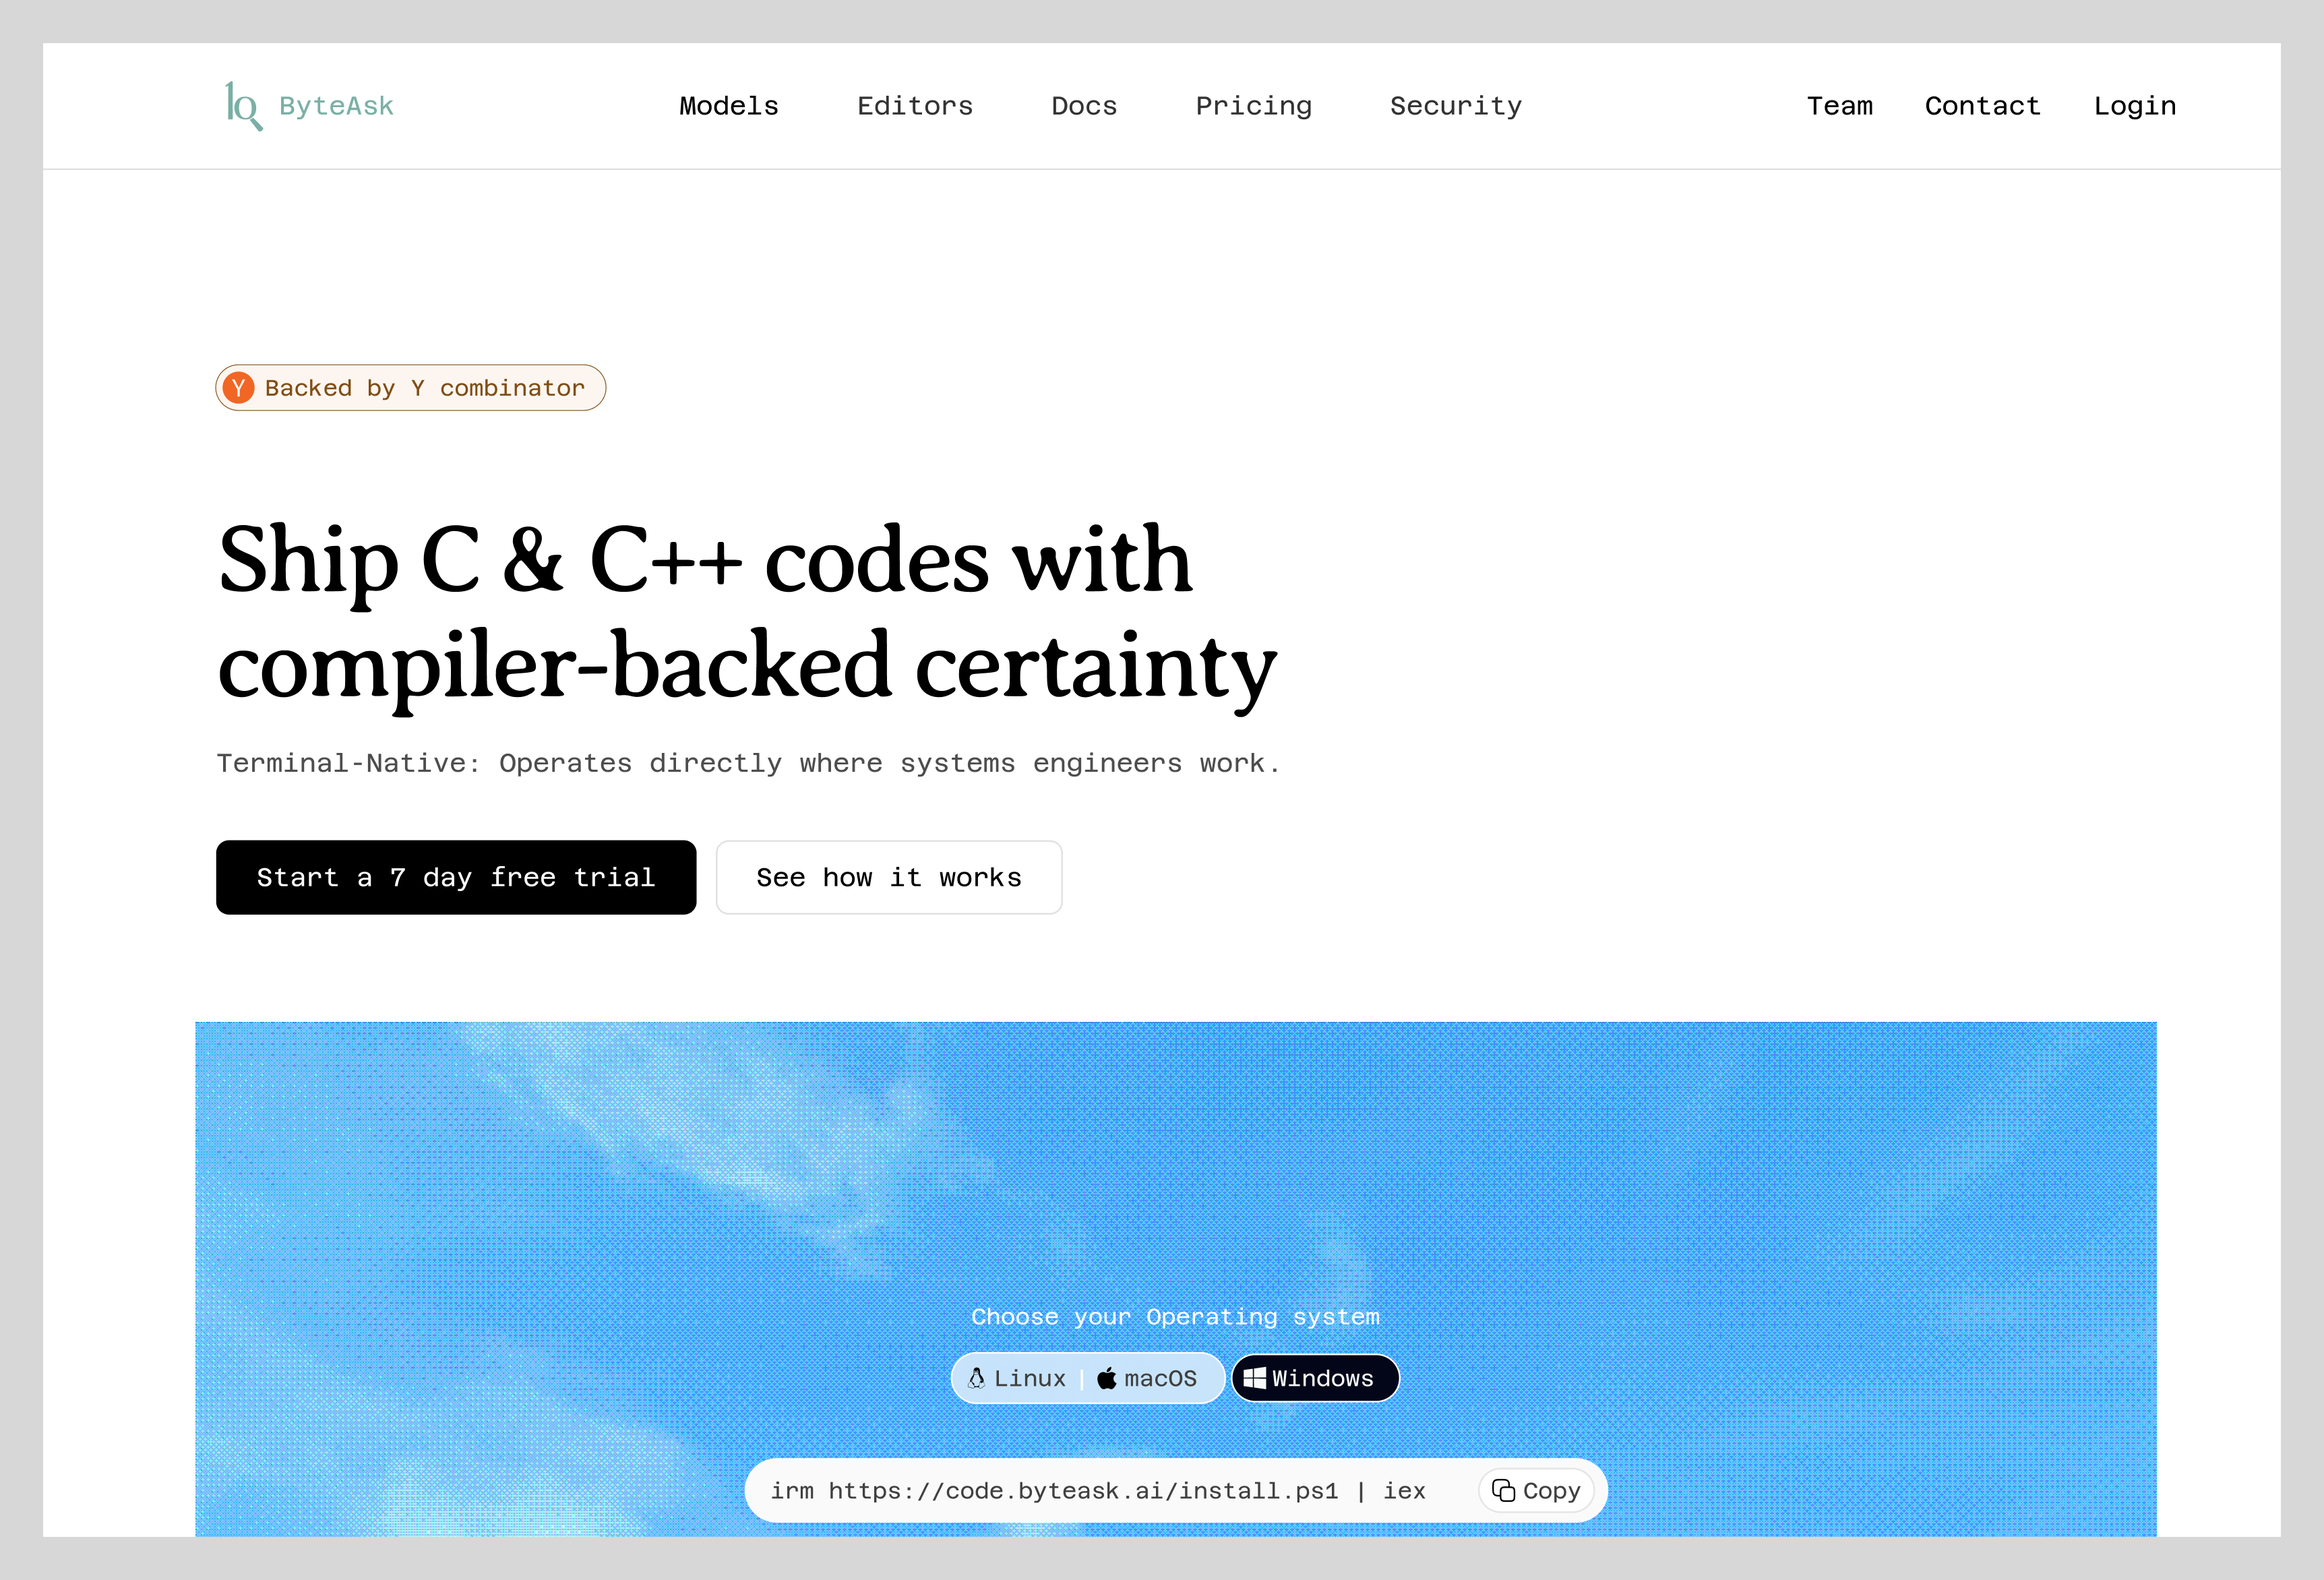
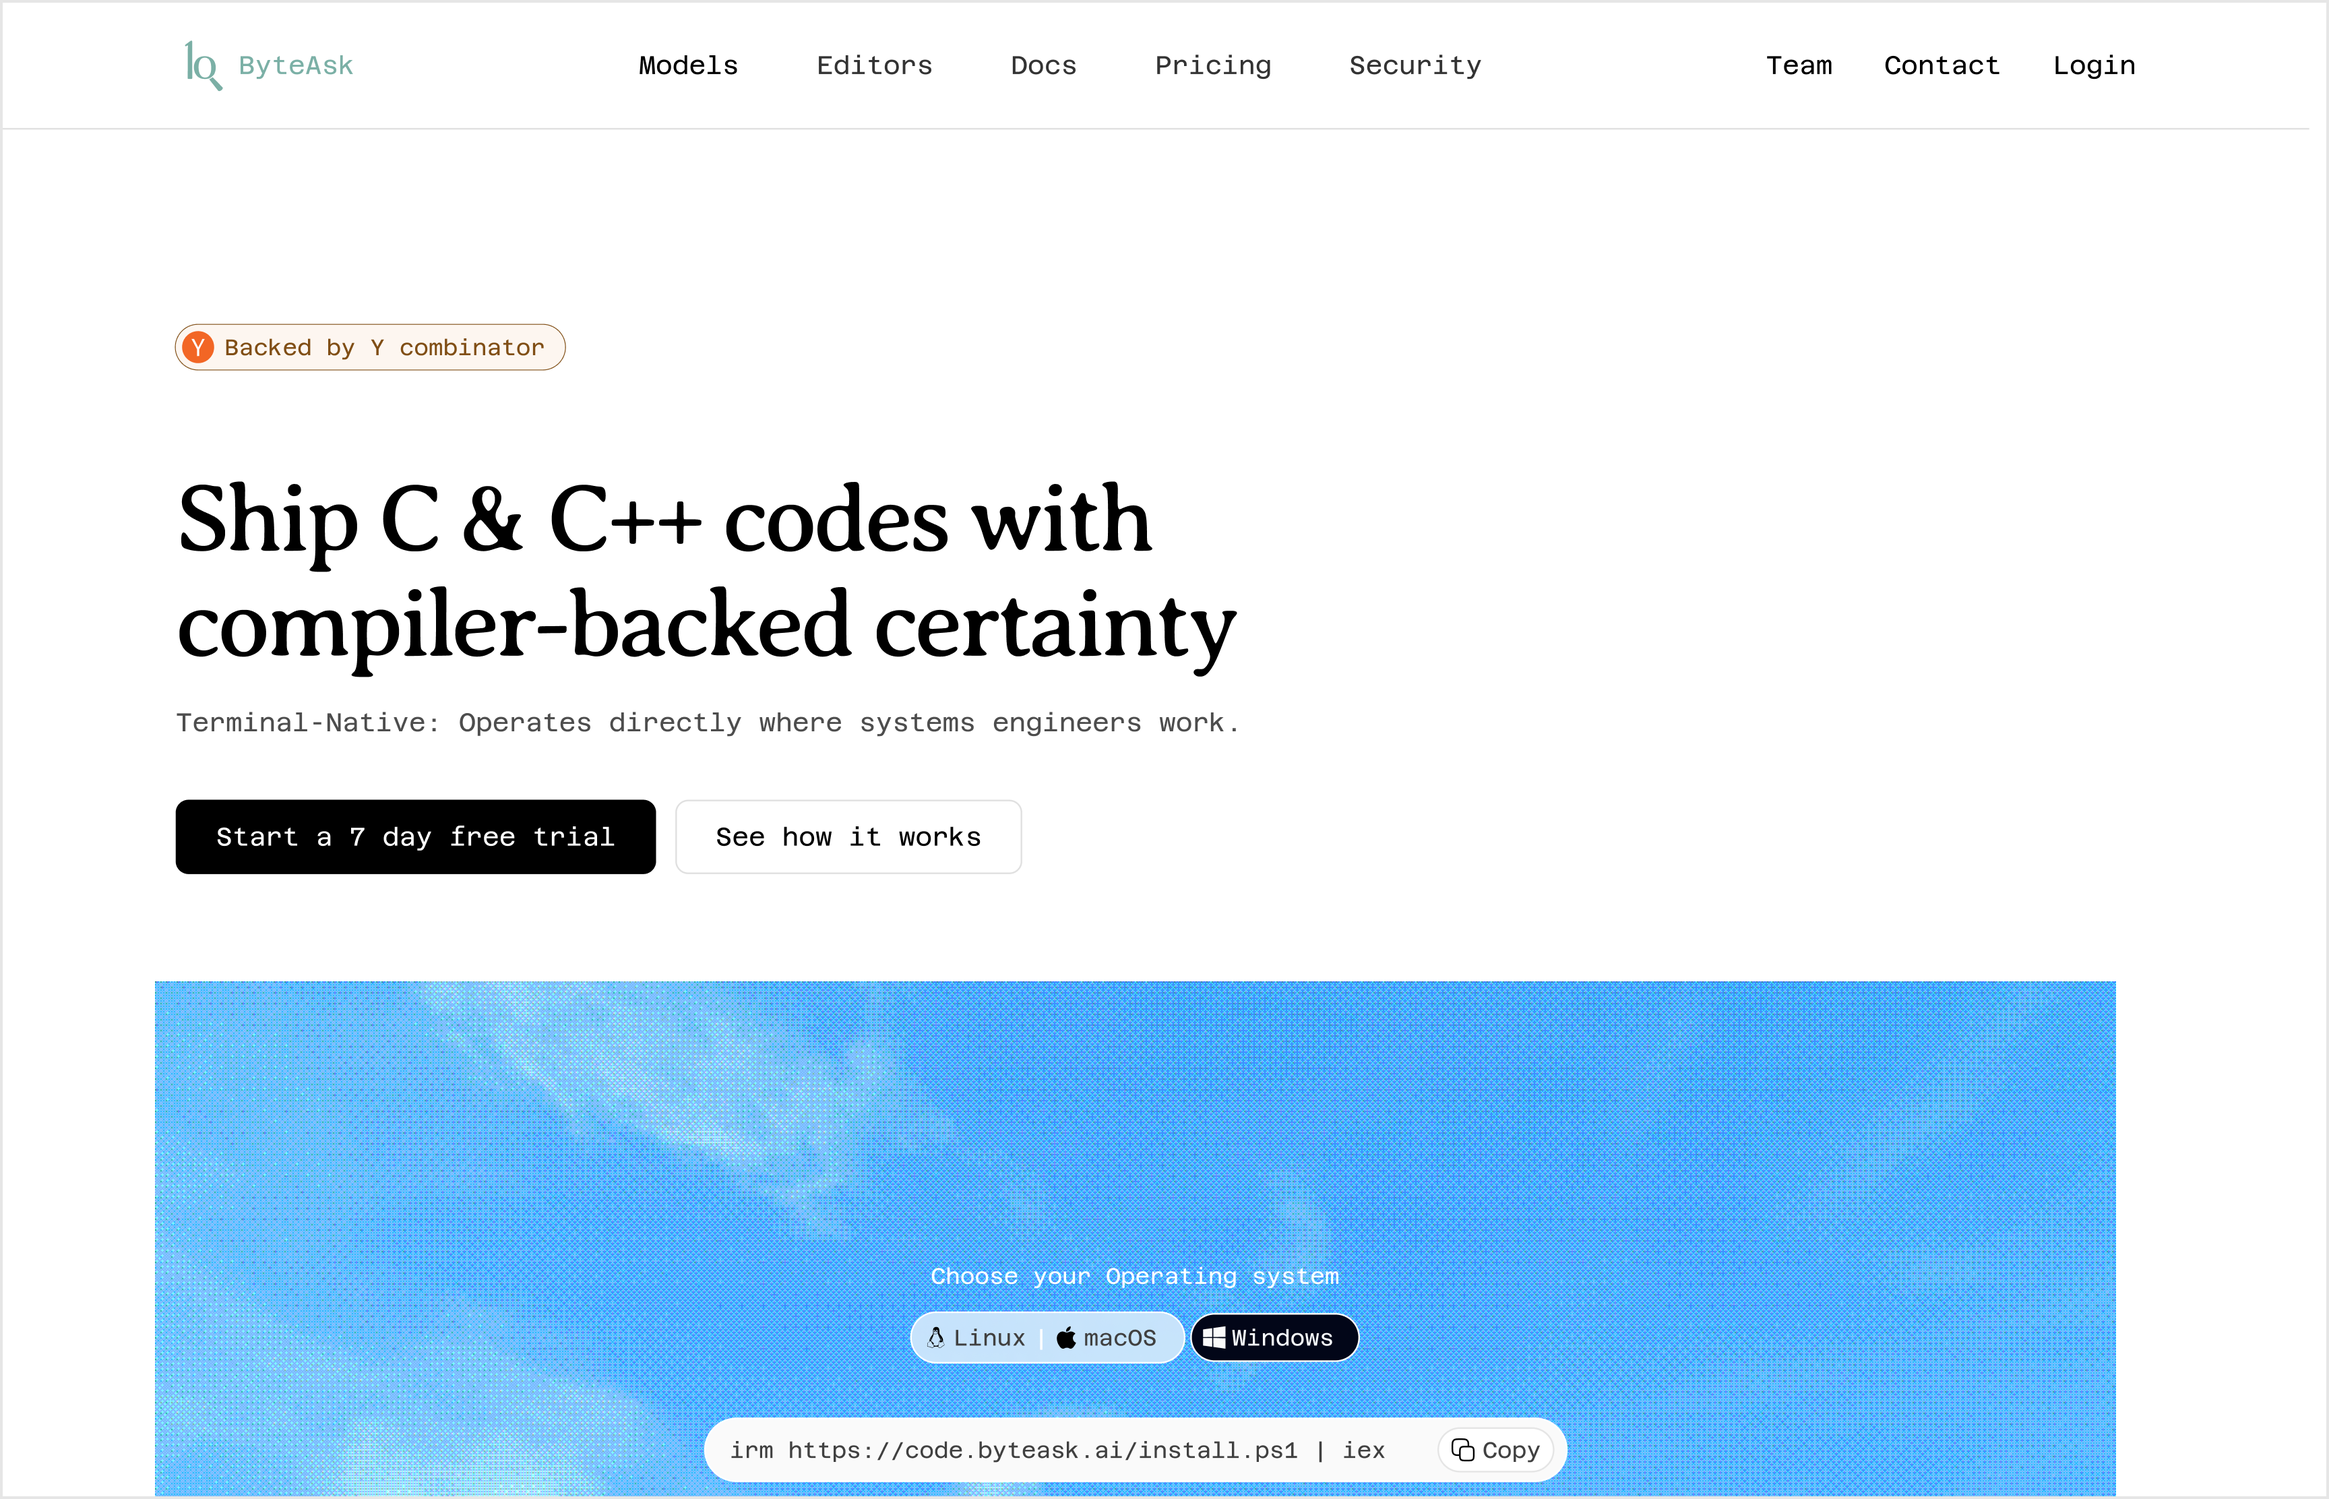
fix: the same typani images were being shown to the temporal's case study and also i added the button like effect to case study link and also reuploaded a better version of hero sections from figma

diff --git a/src/components/sections/ImageGridSection.jsx b/src/components/sections/ImageGridSection.jsx
@@ -14,53 +14,94 @@ import {
   hyperProbeNew1,
   hyperProbeOld1,
 } from "../../assets/redesigns";
+
+import {
+  byteAskNew_new,
+  openSEONew_new,
+  temporalNew_new,
+  threadOtterNew_new,
+  tolgeeNew_new,
+  typaniNew_new,
+  hyperProbeNew1_new,
+} from "../../assets/redesigns/only-new";
+
 import { SectionHeading } from "../ui/SectionHeading";
 
+const newImgages = [
+  byteAskNew_new,
+  openSEONew_new,
+  temporalNew_new,
+  threadOtterNew_new,
+  tolgeeNew_new,
+  typaniNew_new,
+  hyperProbeNew1_new,
+];
+
 const pairs = [
-  { old: hyperProbeOld1, next: hyperProbeNew1 },
   { old: typaniOld, next: typaniNew },
-  { old: temporalOld, next: temporalNew },
   { old: byteAskOld, next: byteAskNew },
   { old: openSEOOld, next: openSEONew },
+  { old: hyperProbeOld1, next: hyperProbeNew1 },
   { old: threadOtterOld, next: threadOtterNew },
   { old: tolgeeOld, next: tolgeeNew },
+  { old: temporalOld, next: temporalNew },
 ];
 
 export default function ImageGridSection() {
   return (
     <section className="w-full">
       <div className="mb-10">
-        <SectionHeading className="mb-0">
-          ( ¬_¬ ) Hero section explorations...
-        </SectionHeading>
+        <SectionHeading className="mb-0">[ Hero section ]</SectionHeading>
       </div>
 
-      {/* One row per pair — old | new */}
-      <div className="flex w-full flex-col gap-4">
-        {pairs.map((pair, index) => (
-          <div
-            key={index}
-            className="grid w-full grid-cols-1 gap-4 md:grid-cols-2"
-          >
-            <div className="border border-gray-200 p-4">
-              <img
-                src={pair.old}
-                alt="Original"
-                draggable="false"
-                className="block h-auto w-full object-contain"
-              />
-            </div>
-            <div className="border border-gray-200 p-4">
-              <img
-                src={pair.next}
-                alt="Redesign"
-                draggable="false"
-                className="block h-auto w-full object-contain"
-              />
-            </div>
+      {/* New redesign images only — 1 column mobile, 2 columns desktop */}
+      <div className="grid w-full grid-cols-1 gap-8">
+        {newImgages.map((img, index) => (
+          <div key={index} className="w-full">
+            <img
+              src={img}
+              alt={`Redesign ${index + 1}`}
+              draggable="false"
+              className="block h-auto w-full object-contain"
+            />
           </div>
         ))}
       </div>
+
+      {/*
+        FUTURE: Old vs. new comparison layout
+        Uncomment this block and comment out the grid above
+        when you want to restore the side-by-side comparisons.
+
+        <div className="flex w-full flex-col gap-16">
+          {pairs.map((pair, index) => (
+            <div
+              key={index}
+              className="grid w-full grid-cols-1 gap-4
+                         border border-gray-300
+                         bg-gray-50/30 p-5 md:grid-cols-2"
+            >
+              <div>
+                <img
+                  src={pair.old}
+                  alt="Original design"
+                  draggable="false"
+                  className="block h-auto w-full object-contain"
+                />
+              </div>
+
+              <div>
+                <img
+                  src={pair.next}
+                  alt="Redesign"
+                  draggable="false"
+                  className="block h-auto w-full object-contain"
+                />
+              </div>
+            </div>
+          ))}
+        </div>
+      */}
     </section>
   );
 }

diff --git a/src/components/sections/FAQSection.jsx b/src/components/sections/FAQSection.jsx
@@ -7,7 +7,7 @@ import { SectionHeading } from "../ui/SectionHeading";
 const faqs = [
   {
     question: "How much does a project cost?",
-    answer: `Design starts at $600 and development at $700. Book both together and the full package is $1,100, saving you $200.
+    answer: `Design starts at $800 and  design + development at $1500 for landing pages.
 
 Every project is custom-designed around your business and your brand. I don't use templates or pre-made layouts. Each page is built from scratch around your audience, your goals, and the story you want your brand to tell, so your site looks like yours and not like a hundred others. That's what turns visitors into customers and gives you a foundation you can grow on.
 
@@ -21,7 +21,7 @@ That includes landing pages, marketing websites, app screens, and design systems
   },
   {
     question: "Can I book just design or just development?",
-    answer: `Yes. Design ($800) and development ($900) can be booked separately.
+    answer: `Yes. Design ($800) and development ($800) can be booked separately.
 
 Booking both together is $1,500 and gives you one person carrying the project from first sketch to live site, with no handoff gaps.`,
   },
@@ -104,7 +104,7 @@ export default function FAQSection() {
       <div className="mb-10 md:mb-12">
         <SectionHeading className="mb-0">
           {" "}
-          ( ^_^ ) Frequently asked questions
+          [ Frequently asked questions ]
         </SectionHeading>
       </div>
 

diff --git a/src/assets/redesigns/index.js b/src/assets/redesigns/index.js
@@ -1,17 +1,17 @@
 import byteAskNew from "./byte-ask-new.png";
-import byteAskOld from "./byte-ask-old.png";
-import openSEONew from "./openSEO-new.png";
-import openSEOOld from "./openSEO-old.png";
-import temporalNew from "./temporal-new.png";
-import temporalOld from "./temporal-old.png";
-import threadOtterNew from "./thread-otter-new.png";
-import threadOtterOld from "./thread-otter-old.png";
-import tolgeeNew from "./tolgee-new.png";
-import tolgeeOld from "./tolgee-old.png";
-import typaniNew from "./typani-new.png";
-import typaniOld from "./typani-old.png";
-import hyperProbeNew1 from "./hyperprobe-1-new.png";
-import hyperProbeOld1 from "./hyperprobe-1-old.png";
+import byteAskOld from "./byte-ask-old.webp";
+import openSEONew from "./openSEO-new.webp";
+import openSEOOld from "./openSEO-old.webp";
+import temporalNew from "./temporal-new.webp";
+import temporalOld from "./temporal-old.webp";
+import threadOtterNew from "./thread-otter-new.webp";
+import threadOtterOld from "./thread-otter-old.webp";
+import tolgeeNew from "./tolgee-new.webp";
+import tolgeeOld from "./tolgee-old.webp";
+import typaniNew from "./typani-new.webp";
+import typaniOld from "./typani-old.webp";
+import hyperProbeNew1 from "./hyperprobe-1-new.webp";
+import hyperProbeOld1 from "./hyperprobe-1-old.webp";
 
 export {
   byteAskNew,

diff --git a/src/pages/NewPortfolio.jsx b/src/pages/NewPortfolio.jsx
@@ -1157,10 +1157,6 @@ export default function NewPortfolio() {
             id="work"
             className={`${col} scroll-mt-6 pb-24 pt-16 md:pt-20`}
           >
-            <h3 className="font-geist-sans text-base text-(--text-primary)">
-              <span className="mr-2">(+_+)</span> Selected works
-            </h3>
-
             <div className="mt-8 flex flex-col gap-14 md:gap-16">
               {works.map((w) => (
                 <article key={w.title}>
@@ -1190,10 +1186,7 @@ export default function NewPortfolio() {
                   </p>
                   <a
                     href={w.href}
-                    className="relative mt-4 inline-flex w-fit items-center gap-1 whitespace-nowrap text-lg text-(--text-primary) hover:opacity-70
-    after:absolute after:bottom-0 after:left-0 after:h-[1px]
-    after:w-0 after:bg-current after:transition-all
-    after:duration-300 hover:after:w-full"
+                    className={`inline-flex h-8 cursor-pointer items-center gap-2 rounded-[8px] border border-(--border-color) hover:bg-(--card-bg) pl-2 pr-4 py-4 text-base text-(--text-primary) transition-colors bg-(--border-color) mt-4 w-fit whitespace-nowrap`}
                   >
                     Case study
                     {icons.chevron}

diff --git a/src/data/caseStudyCard.js b/src/data/caseStudyCard.js
@@ -77,16 +77,21 @@ const caseStudies = [
     tags: ["Web design", "Design system", "Strategy", "Illustrations"],
 
     images: [
-      typani_hero_section,
-      typaniDesktop1,
-      typaniDesktop2,
-      typaniDesktop3,
-      typaniDesktop4,
-      howItWorksCards,
-      sixSeconds_bento,
-      ninePM1Star_bento,
-      howReplyLooksLike_bento,
-      pricing_Cards,
+      temporalDesktop4_3,
+      temporalDesktop1,
+      temporalDesktop2,
+      temporalDesktop3,
+      temporalDesktop4,
+      temporalDesktop5,
+      temporalDesktop6,
+      temporalDesktop7,
+      img1,
+      img2,
+      img3,
+      img4,
+      img5,
+      img6,
+      img7,
     ],
 
     caseStudy: true,

diff --git a/src/assets/redesigns/only-new/index.js b/src/assets/redesigns/only-new/index.js
@@ -1,0 +1,17 @@
+import byteAskNew_new from "./byte-ask-new.png";
+import openSEONew_new from "./openSEO-new.webp";
+import temporalNew_new from "./temporal-new.webp";
+import threadOtterNew_new from "./thread-otter-new.webp";
+import tolgeeNew_new from "./tolgee-new.webp";
+import typaniNew_new from "./typani-new.webp";
+import hyperProbeNew1_new from "./hyperprobe-1-new.webp";
+
+export {
+  byteAskNew_new,
+  openSEONew_new,
+  temporalNew_new,
+  threadOtterNew_new,
+  tolgeeNew_new,
+  typaniNew_new,
+  hyperProbeNew1_new,
+};

diff --git a/src/components/ui/SectionHeading.jsx b/src/components/ui/SectionHeading.jsx
@@ -4,7 +4,7 @@ import { ReactNode } from "react";
 export function SectionHeading({ children, className = "" }) {
   return (
     <div className={`flex items-center gap-3 ${className}`}>
-      <span className="font-mono text-[14px] tracking-tight text-black">
+      <span className="font-geist-sans text-[36px] tracking-tight text-gray-400">
         {children}
       </span>
     </div>

diff --git a/src/components/ui/SelectedWorks.jsx b/src/components/ui/SelectedWorks.jsx
@@ -268,7 +268,7 @@ const SelectedWorks = () => {
   return (
     <section className="w-full">
       <div className="mb-10">
-        <SectionHeading className="mb-0">(+_+) Selected works</SectionHeading>
+        <SectionHeading className="mb-0">[ Selected works ]</SectionHeading>
       </div>
 
       <div className="space-y-28">
